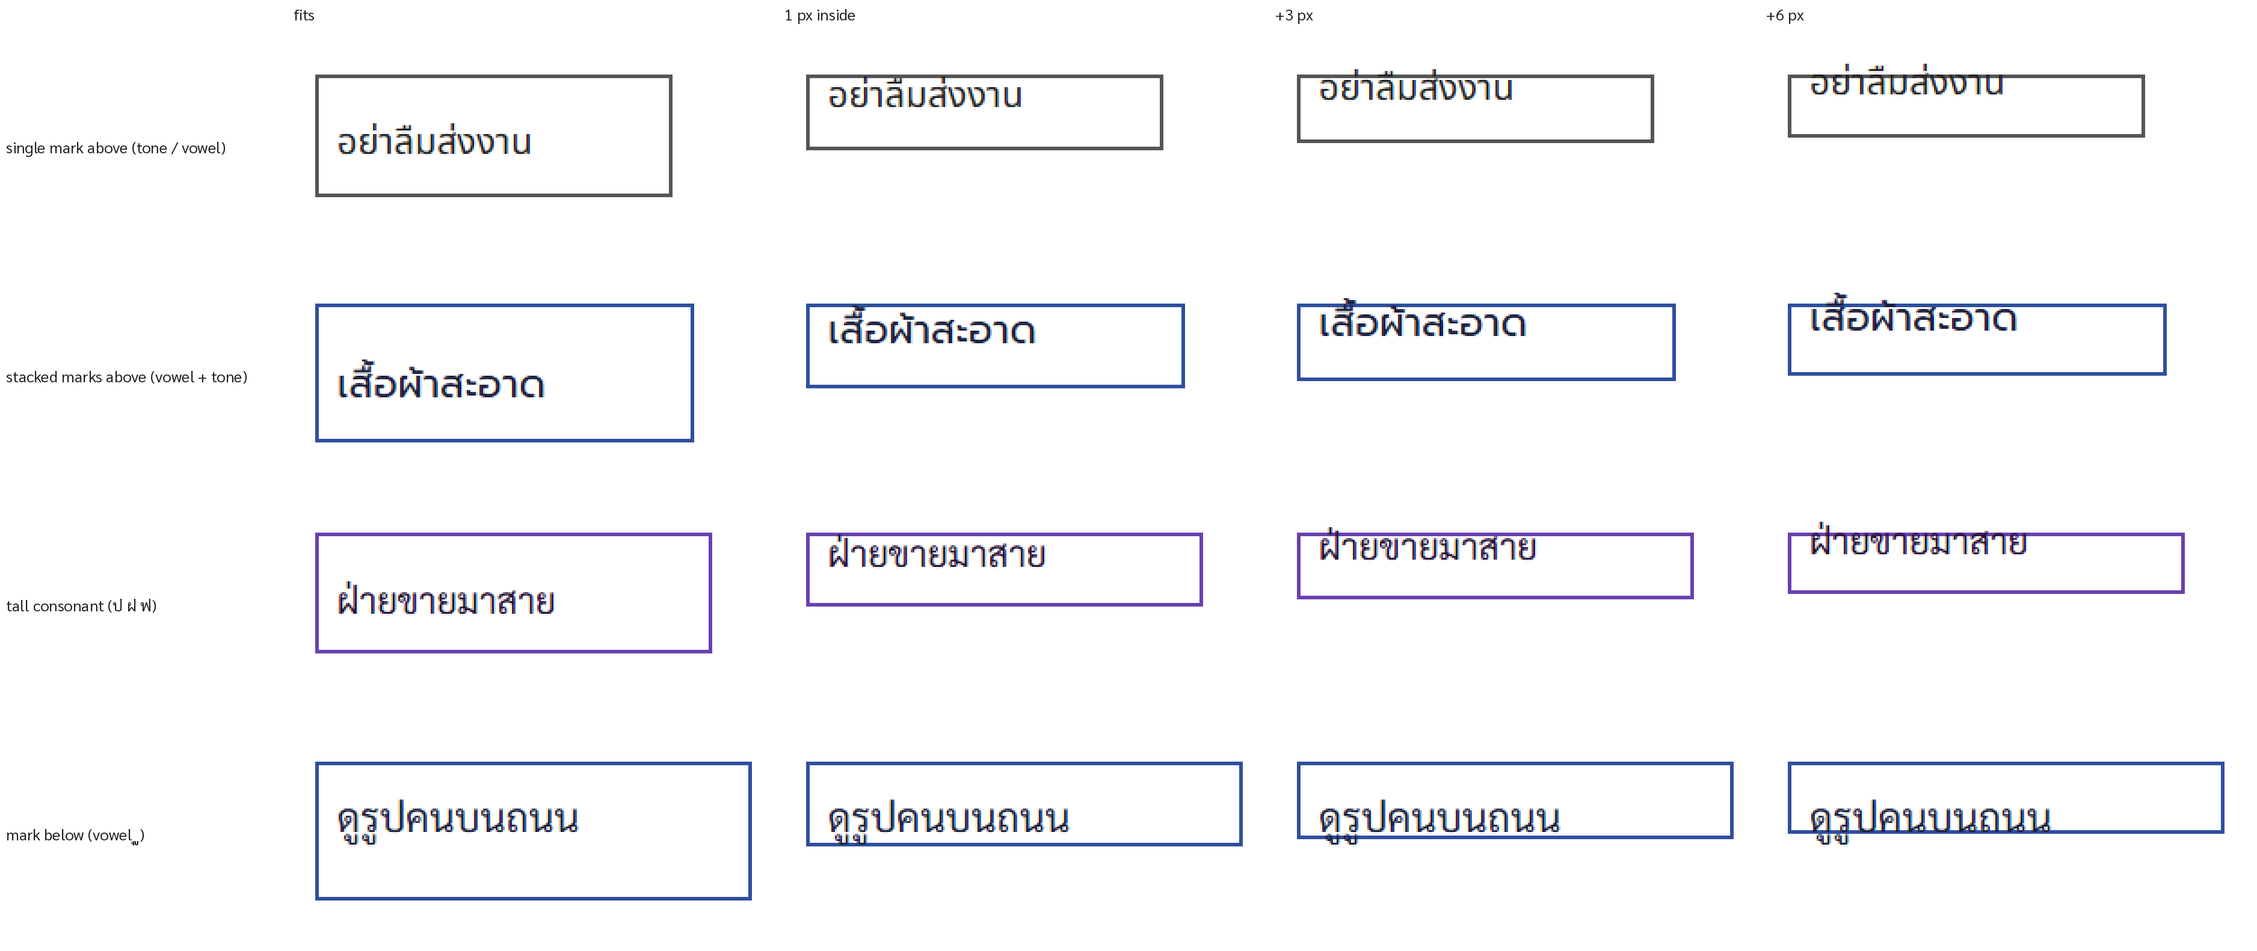
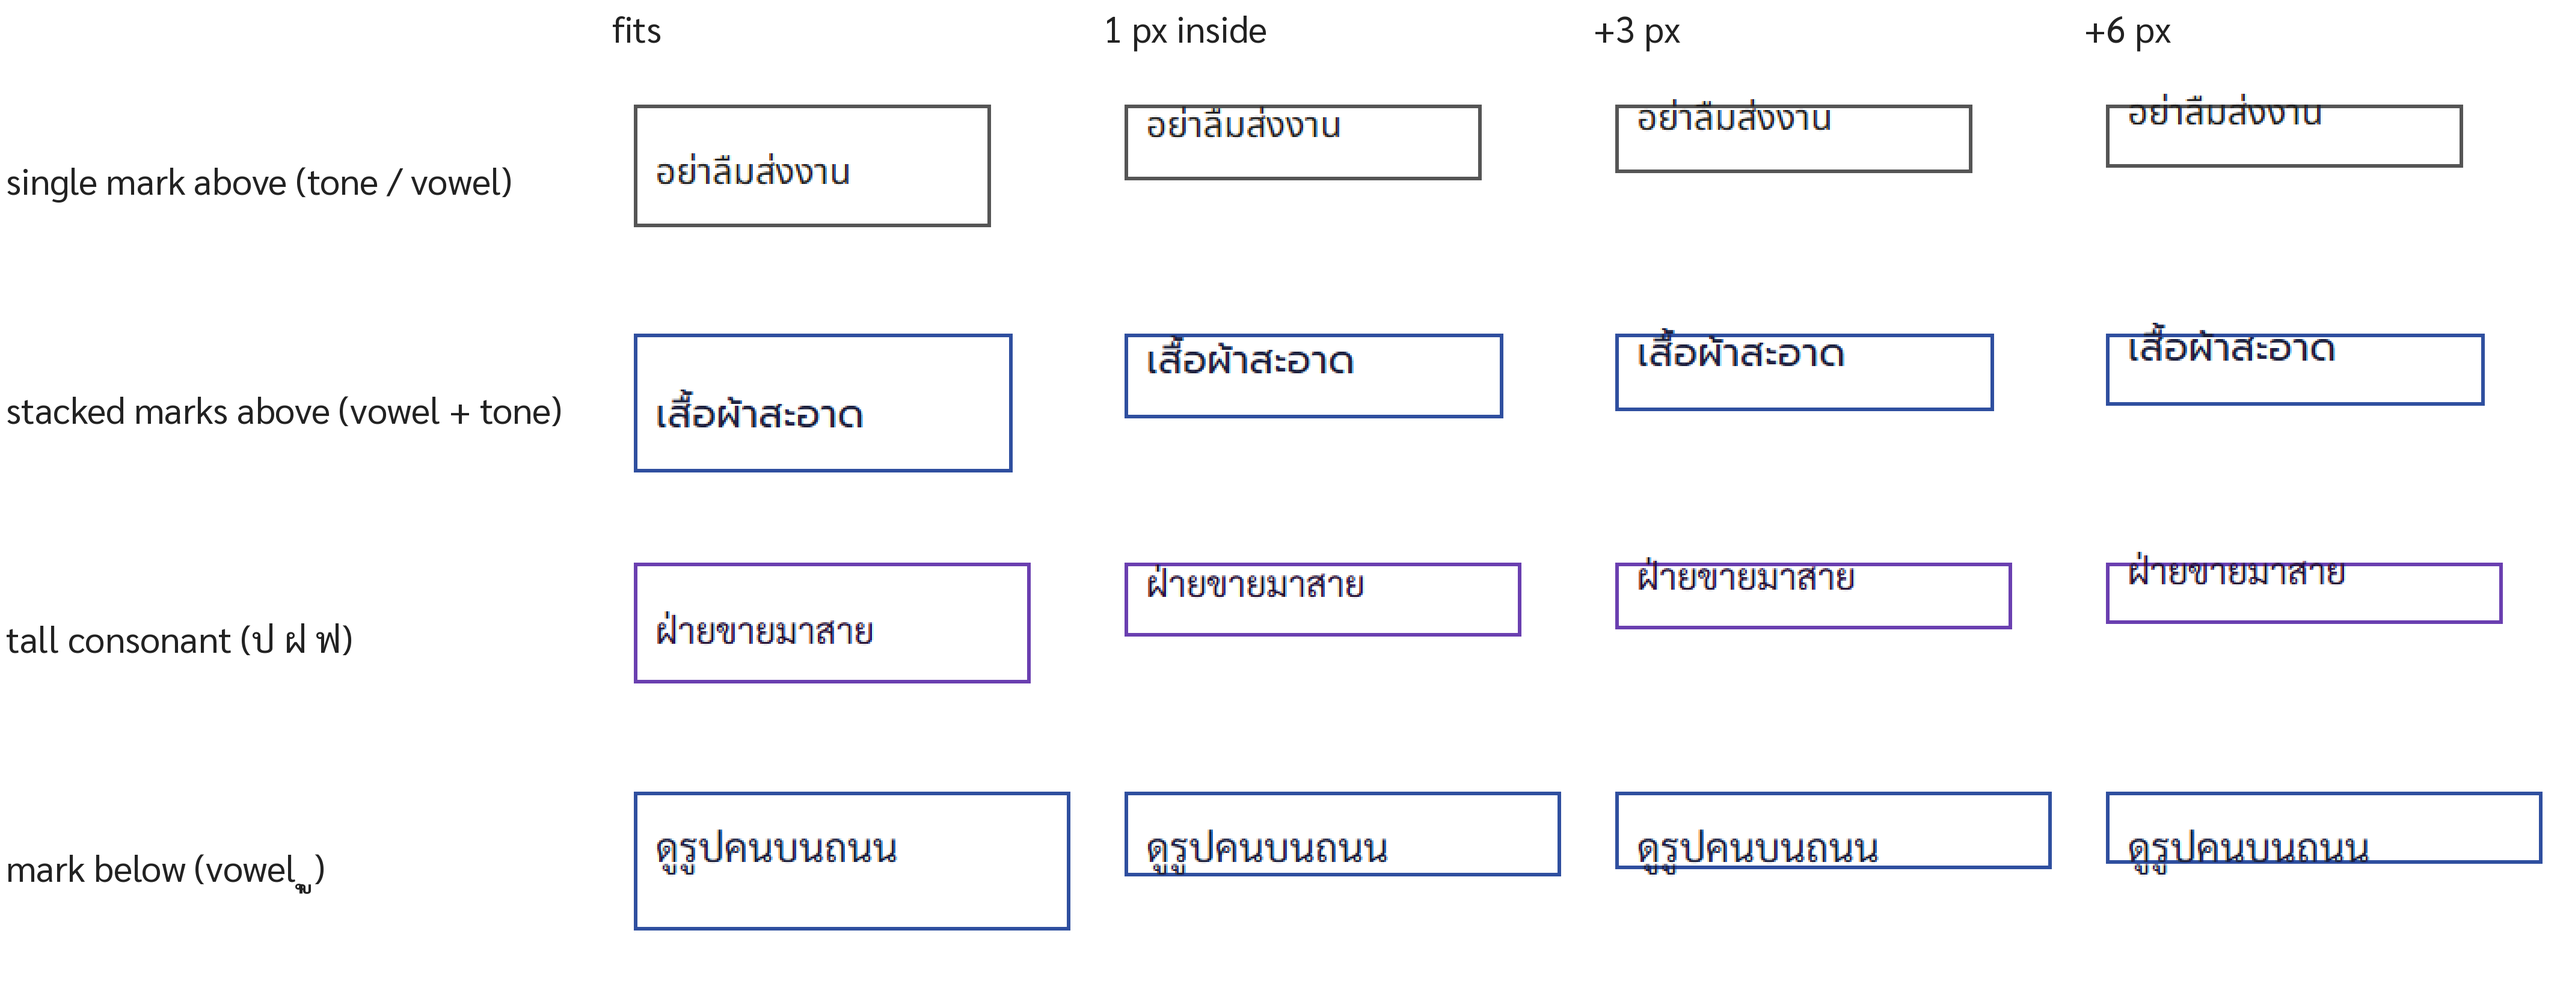
Figures: larger labels on the cell-11 sheet, two-line model labels on the heatmap

diff --git a/eval/figures.py b/eval/figures.py
@@ -151,7 +151,7 @@ def fig_decoy():
         axes[0].bar(x + (j - 0.5) * w, ys, w, yerr=[lo, hi], color=col, capsize=2, error_kw={"lw": 0.6},
                     label=f"in-box phrase {ph}")
     axes[0].set_xticks(x)
-    axes[0].set_xticklabels([NAME[s].replace(" ", "\n", 1) for s in SLOTS], fontsize=6.5)
+    axes[0].set_xticklabels([NAME[s].replace("GLM-5.3-Flash", "GLM-5.3 Flash").replace(" ", "\n", 1) for s in SLOTS], fontsize=6.5)
     axes[0].set_ylabel("false-alarm rate on decoys")
     axes[0].set_ylim(0, 1)
     axes[0].legend(frameon=False, loc="upper left")
@@ -315,7 +315,7 @@ def fig_heatmap():
                 col = "white" if (np.isnan(v) or (v - vmin) / (vmax - vmin) < 0.55) else "black"
                 ax.text(j, i, txt[i, j], ha="center", va="center", fontsize=6, color=col)
         ax.set_xticks(range(len(SLOTS)))
-        ax.set_xticklabels([NAME[s].replace(" ", "\n", 1) for s in SLOTS], fontsize=6)
+        ax.set_xticklabels([NAME[s].replace("GLM-5.3-Flash", "GLM-5.3 Flash").replace(" ", "\n", 1) for s in SLOTS], fontsize=6)
         ax.set_yticks(range(len(cells)))
         ax.set_yticklabels([CELL_NAME[c] for c in cells], fontsize=6.5)
         ax.set_title(title + " (reasoning off, rep 0)")
@@ -458,7 +458,7 @@ def fig_thai_marks():
     fams = [("single", "single mark above (tone / vowel)"), ("stacked", "stacked marks above (vowel + tone)"),
             ("tall", "tall consonant (ป ฝ ฟ)"), ("below", "mark below (vowel ุ ู)")]
     levels = [("anchor", "fits"), ("m1", "1 px inside"), ("p3", "+3 px"), ("p6", "+6 px")]
-    font = ImageFont.truetype(str(ROOT / "gen" / "fonts" / "Sarabun.ttf"), 26)
+    font = ImageFont.truetype(str(ROOT / "gen" / "fonts" / "Sarabun.ttf"), 60)
     tiles = {}
     for fam, _ in fams:
         sids = sorted({r["sid"] for r in man if r["family"] == fam})
@@ -471,14 +471,14 @@ def fig_thai_marks():
             tiles[(fam, lv)] = im.resize((im.width * 3, im.height * 3), Image.NEAREST)
     W = max(t.width for t in tiles.values())
     H = max(t.height for t in tiles.values())
-    pad, cap, left = 18, 40, 470
+    pad, cap, left = 18, 90, 1000
     sheet = Image.new("RGB", (left + 4 * (W + pad) + pad, cap + 4 * (H + pad) + pad), "white")
     draw = ImageDraw.Draw(sheet)
     for j, (_, lab) in enumerate(levels):
         draw.text((left + pad + j * (W + pad), 6), lab, fill="#222222", font=font)
     for i, (fam, lab) in enumerate(fams):
         y = cap + pad + i * (H + pad)
-        draw.text((10, y + H // 2 - 12), lab, fill="#222222", font=font)
+        draw.text((10, y + H // 2 - 30), lab, fill="#222222", font=font)
         for j, (lv, _) in enumerate(levels):
             sheet.paste(tiles[(fam, lv)], (left + pad + j * (W + pad), y))
     sheet.save(OUT / "fig_thai_marks.png")
